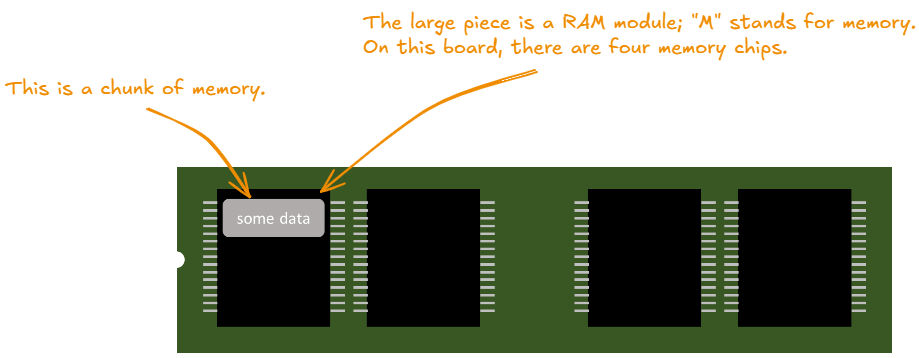
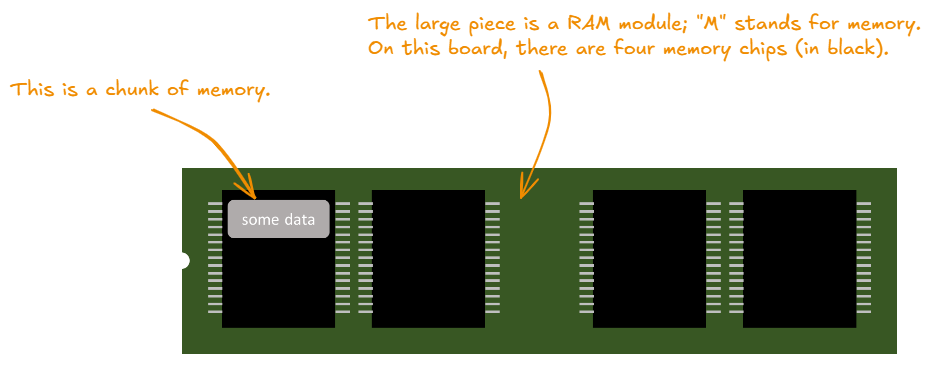
rewrite ch1

diff --git a/docs/py101_md/ch1_1_objects.md b/docs/py101_md/ch1_1_objects.md
@@ -16,7 +16,14 @@ Most of the code on this page is **live**: edit it and press *Run* (or Ctrl/Cmd+
 
 Programming is, in large part, the art of putting mathematical ideas into practice, and the most important idea it borrows from mathematics is *abstraction*. The most elementary abstraction is the **variable**. You have met it before: in primary school you counted with concrete numbers like 1, 2, 3, and in middle school you used a symbol such as $x$ to stand for a generic number that might be 1, 2, or 100. That versatility is the whole point.
 
-In Python we call such a symbol a **name**. When you write `x = 1`, Python sets aside a chunk of memory holding the value `1`, and then *binds* the name `x` to that object. The name is a label; the object is the thing the label points to. We will not learn how computer memory stores values in detail; the binary conversion is out of the scopr of this text. All you need to know is a bird-eye view: a computer memory stores values somehow. ![A RAM module with four memory chips](../assets/ram-module.png)
+In Python we call such a symbol a **name**. When you write `x = 1`, Python sets aside a chunk of memory holding the value `1`, and then *binds* the name `x` to that object. The name is a label; the object is the thing the label points to. We will not learn how computer memory stores values in detail; the binary conversion is out of the scopr of this text. All you need to know is a bird-eye view: a computer memory stores values somehow. 
+<figure style="text-align: center;">
+  <img src="../../assets/ram-module.png"
+       alt="A RAM module with four memory chips"
+       width="700">
+  <figcaption>Figure 1. A RAM module and its memory chips.</figcaption>
+</figure>
+In the picture, some data indicates the actual value the memory holds. When you want to use this memory, you cannot just reach your hand to the memory chip. You ask Python to fetch that value for you. Python will look up the name `x` in the memory, find where the object lives, and then fetch the value stored there.
 
 ???+ note "Key concept: object"
     An **object** is a piece of data living in memory with a well-defined structure. Every object carries three things at once:
@@ -25,7 +32,7 @@ In Python we call such a symbol a **name**. When you write `x = 1`, Python sets 
     - its **type** — what kind of thing it is, which fixes the values it can hold and the operations it allows, read with `type()`;
     - its **value** — the actual data it stores.
 
-You have already met this chapter's motto — *everything in Python is an object*. Here in Section 1 we add its companion principle, the one that makes assignment make sense: **names refer to objects**. Binding a name never copies a value; it simply attaches another label to an object that already exists.
+You have already met this chapter's motto — *Everything in Python is an object*. Here in Section 1 we add its companion principle, the one that makes assignment make sense: **names refer to objects**. Binding a name never copies a value; it simply attaches another label to an object that already exists.
 
 The example below demonstrates that assignment binds a name to an object rather than copying a value — run it and watch how two names end up sharing one identity.
 
